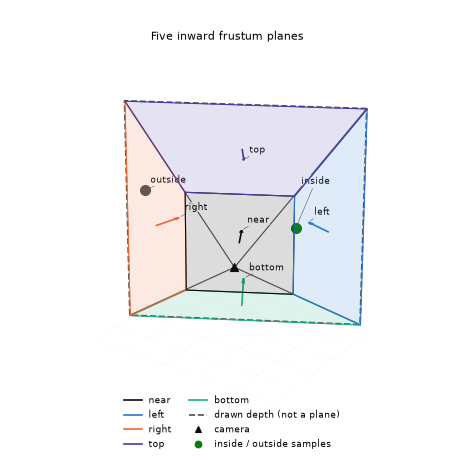
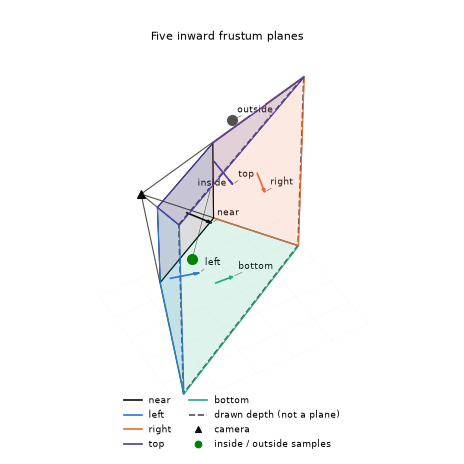
math: frustum planes still from azimuth -30, elevation 45

Changed region(s): [[0.2414, 0.1509, 0.8147, 0.8448]]

diff --git a/launcher/tools/math/geometry_figures.py b/launcher/tools/math/geometry_figures.py
@@ -57,8 +57,8 @@ FRUSTUM_FACE_ORDER = (0, 5, 3, 2, 4)
 LEGEND_Y = 0.015
 FIELD_AZIMUTH = -125
 FIELD_ELEVATION = 35
-FRUSTUM_AZIMUTH = -145
-FRUSTUM_ELEVATION = 25
+FRUSTUM_AZIMUTH = -30
+FRUSTUM_ELEVATION = 45
 CAMERA_ZORDER = 10
 GROUND_HEIGHT = 0
 FIELD_FIGURE_SIZE = (8, 6.8)
